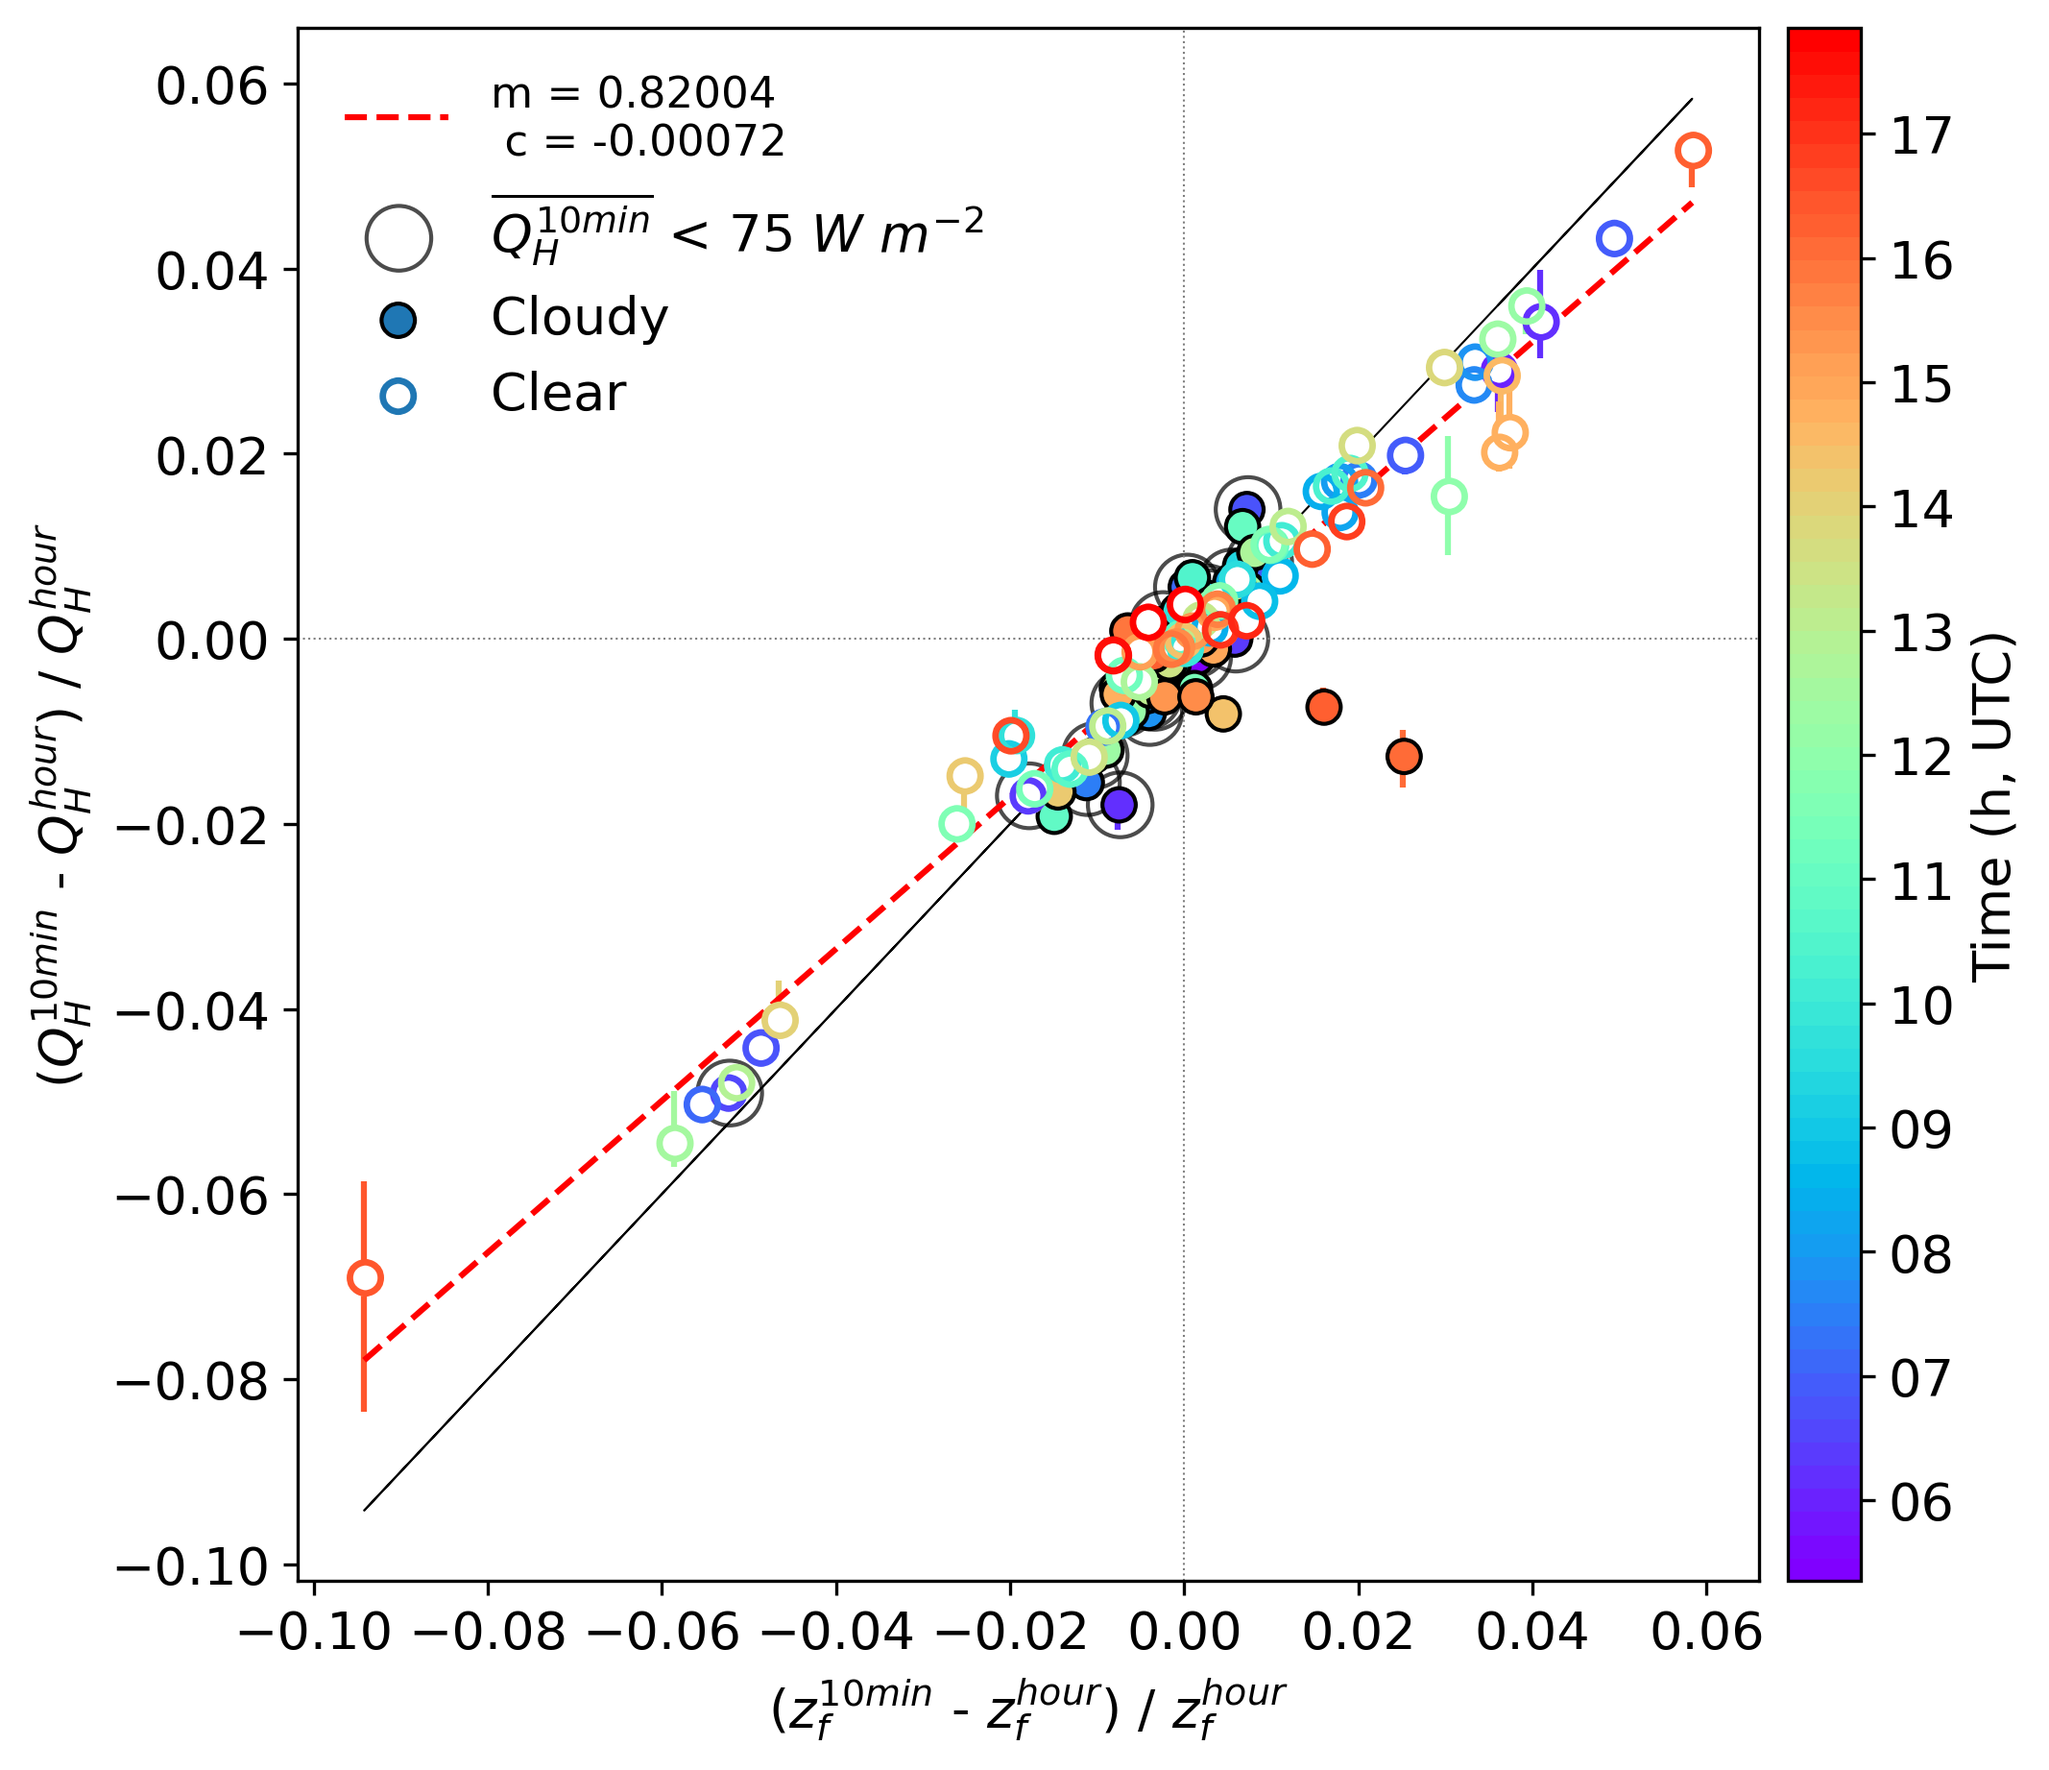
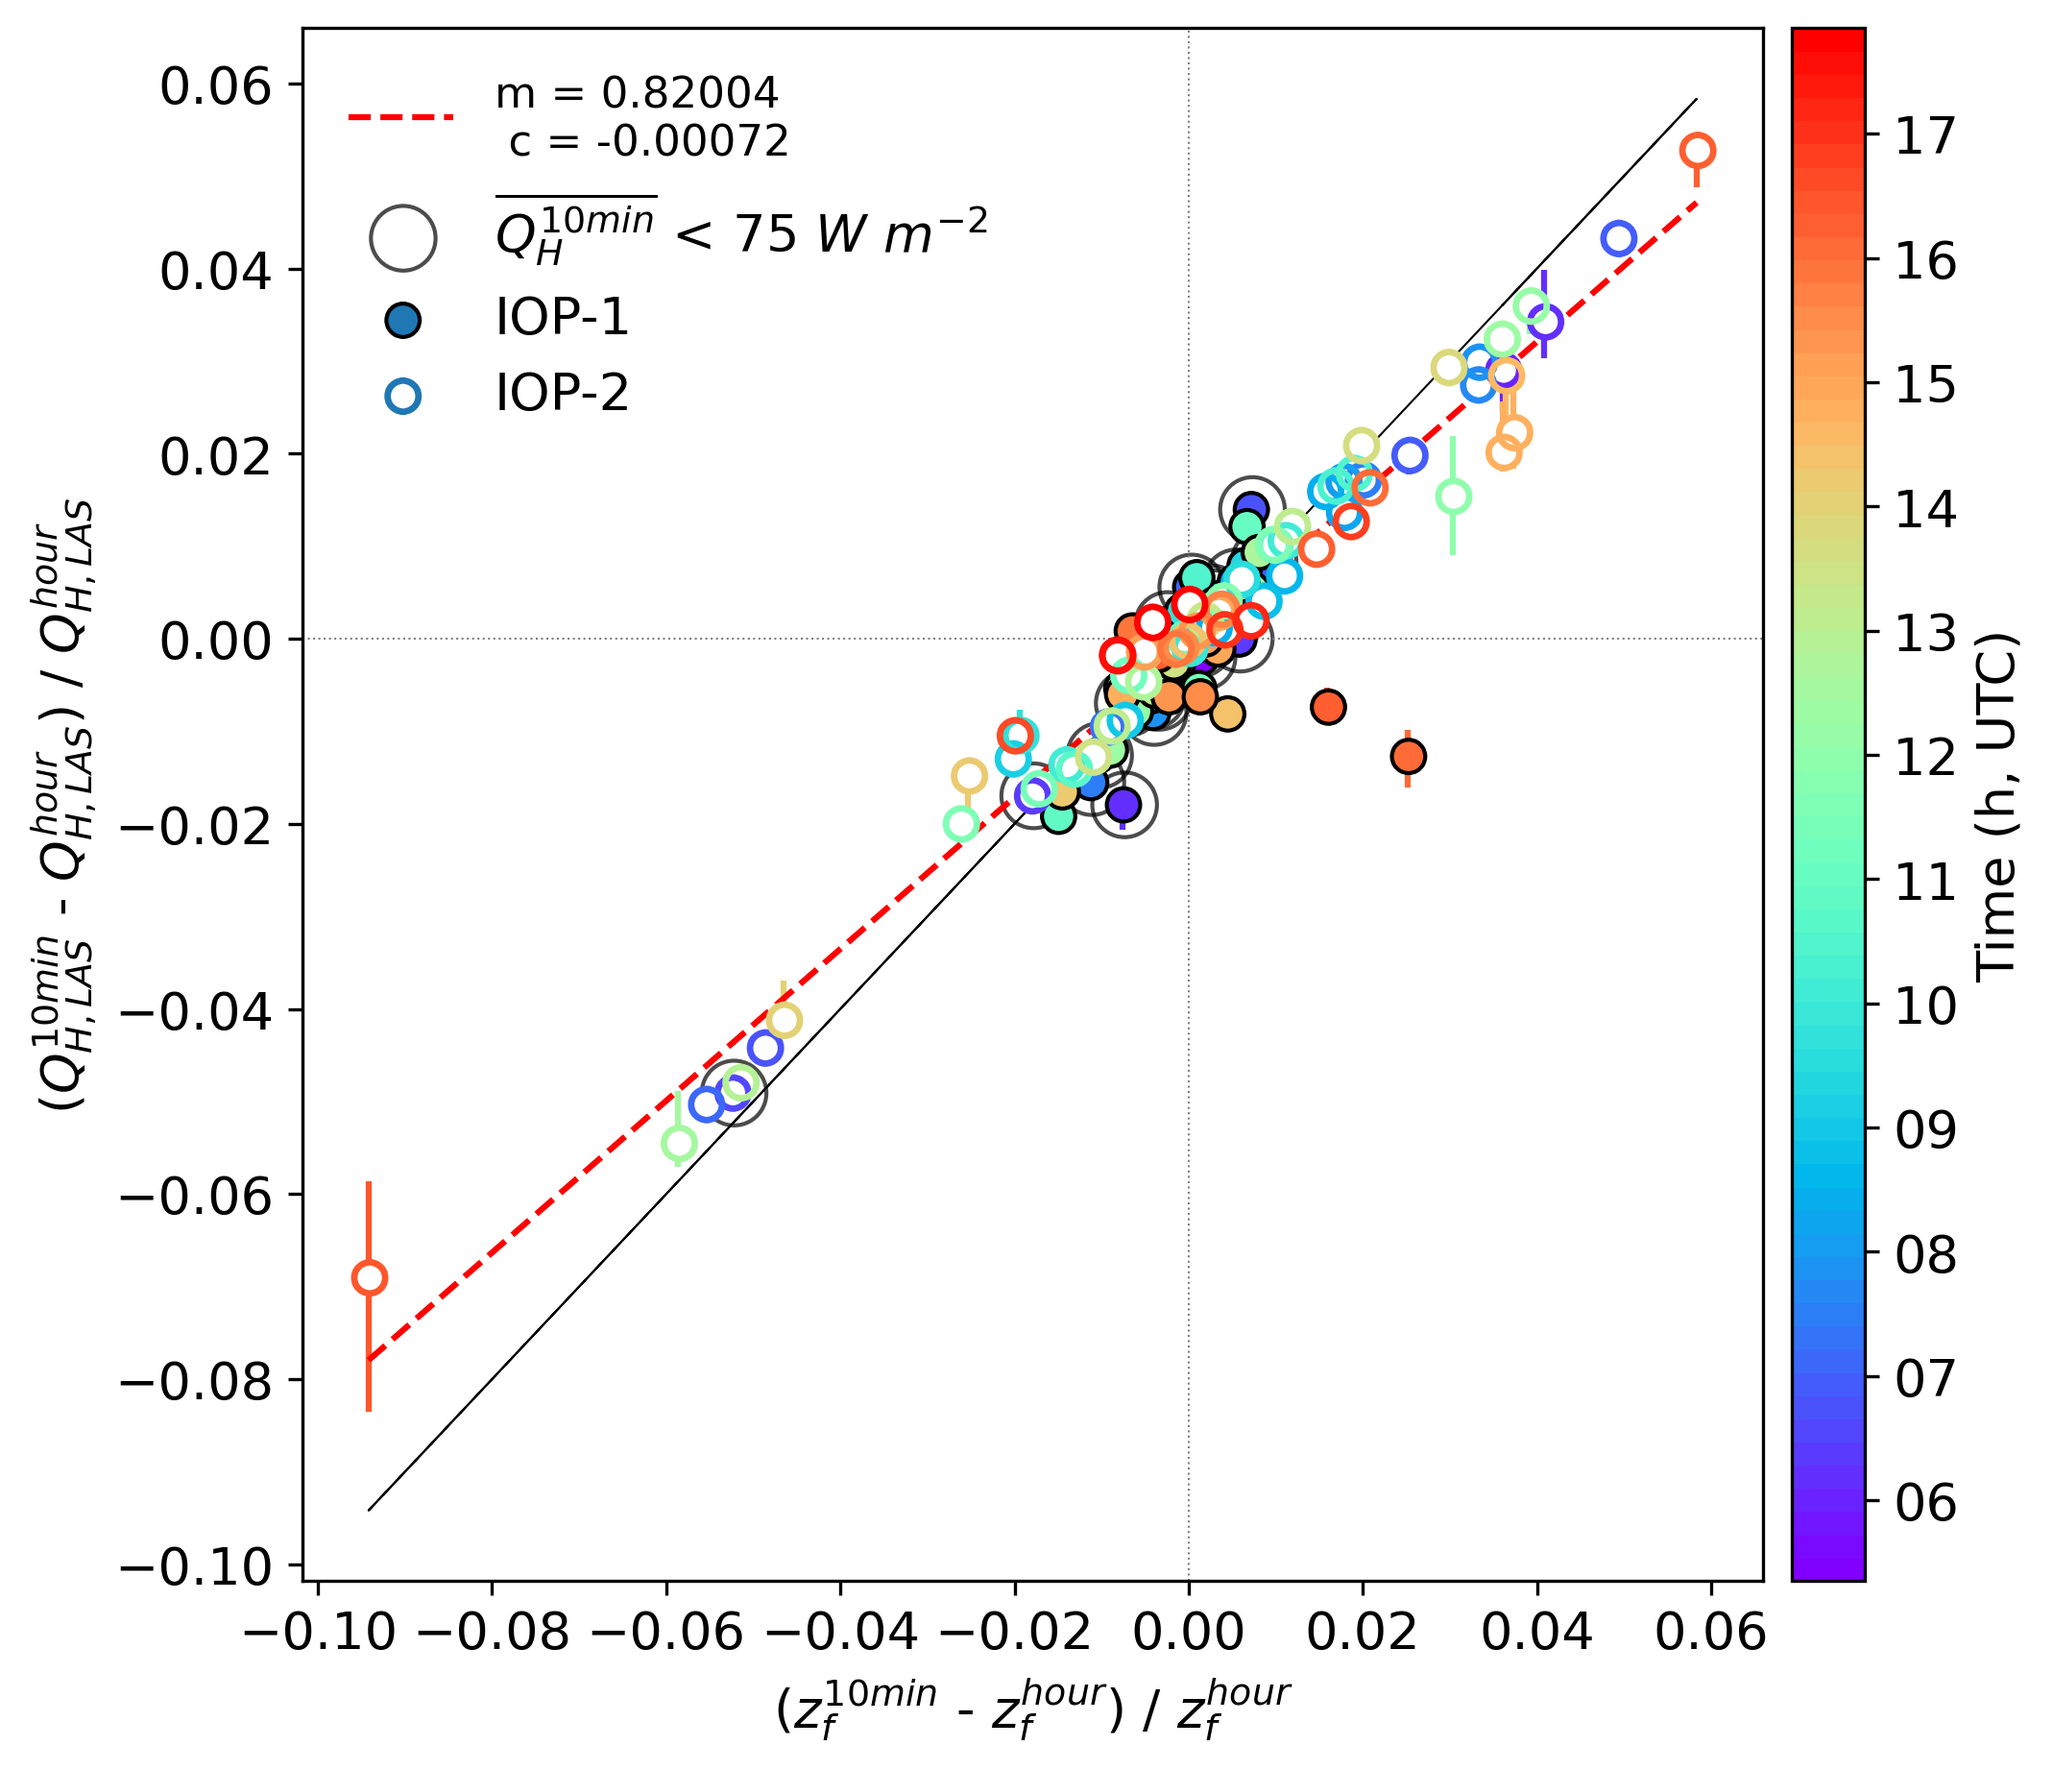
update names and notation

diff --git a/scint_plots/sa_frequency/sa_frequency_funs.py b/scint_plots/sa_frequency/sa_frequency_funs.py
@@ -171,12 +171,12 @@ def plot_sa_freq(DOY_df_dict):
     # cloudy
     s = ax.scatter(DOY_df_dict[2016123]['x_vals'], DOY_df_dict[2016123]['y_vals'],
                    c=mdates.date2num(DOY_df_dict[2016123]['start_times']), marker='$\u25cf$', cmap=cmap, norm=norm,
-                   edgecolor='k', label='Cloudy', s=80, zorder=3)
+                   edgecolor='k', label='IOP-1', s=80, zorder=3)
 
     # clear
     s2 = ax.scatter(DOY_df_dict[2016126]['x_vals'], DOY_df_dict[2016126]['y_vals'],
                     c=mdates.date2num(DOY_df_dict[2016126]['start_times']), marker='$\u25cb$', cmap=cmap, norm=norm,
-                    label='Clear', zorder=5, s=80)
+                    label='IOP-2', zorder=5, s=80)
 
     # use white scatter marks - so lines don't appear through marker
     # facecolor didn't work...
@@ -206,7 +206,7 @@ def plot_sa_freq(DOY_df_dict):
         [mdates.num2date(i).strftime('%H') for i in cbar.get_ticks()])  # set ticks of your format
     cbar.set_label('Time (h, UTC)')
 
-    ax.set_ylabel('($Q_{H}^{10min}$ - $Q_{H}^{hour}$) / $Q_{H}^{hour}$')
+    ax.set_ylabel('($Q_{H,LAS}^{10min}$ - $Q_{H,LAS}^{hour}$) / $Q_{H,LAS}^{hour}$')
     ax.set_xlabel('($z_{f}^{10min}$ - $z_{f}^{hour}$) / $z_{f}^{hour}$')
 
     leg = ax.legend(frameon=False, fontsize='medium')
